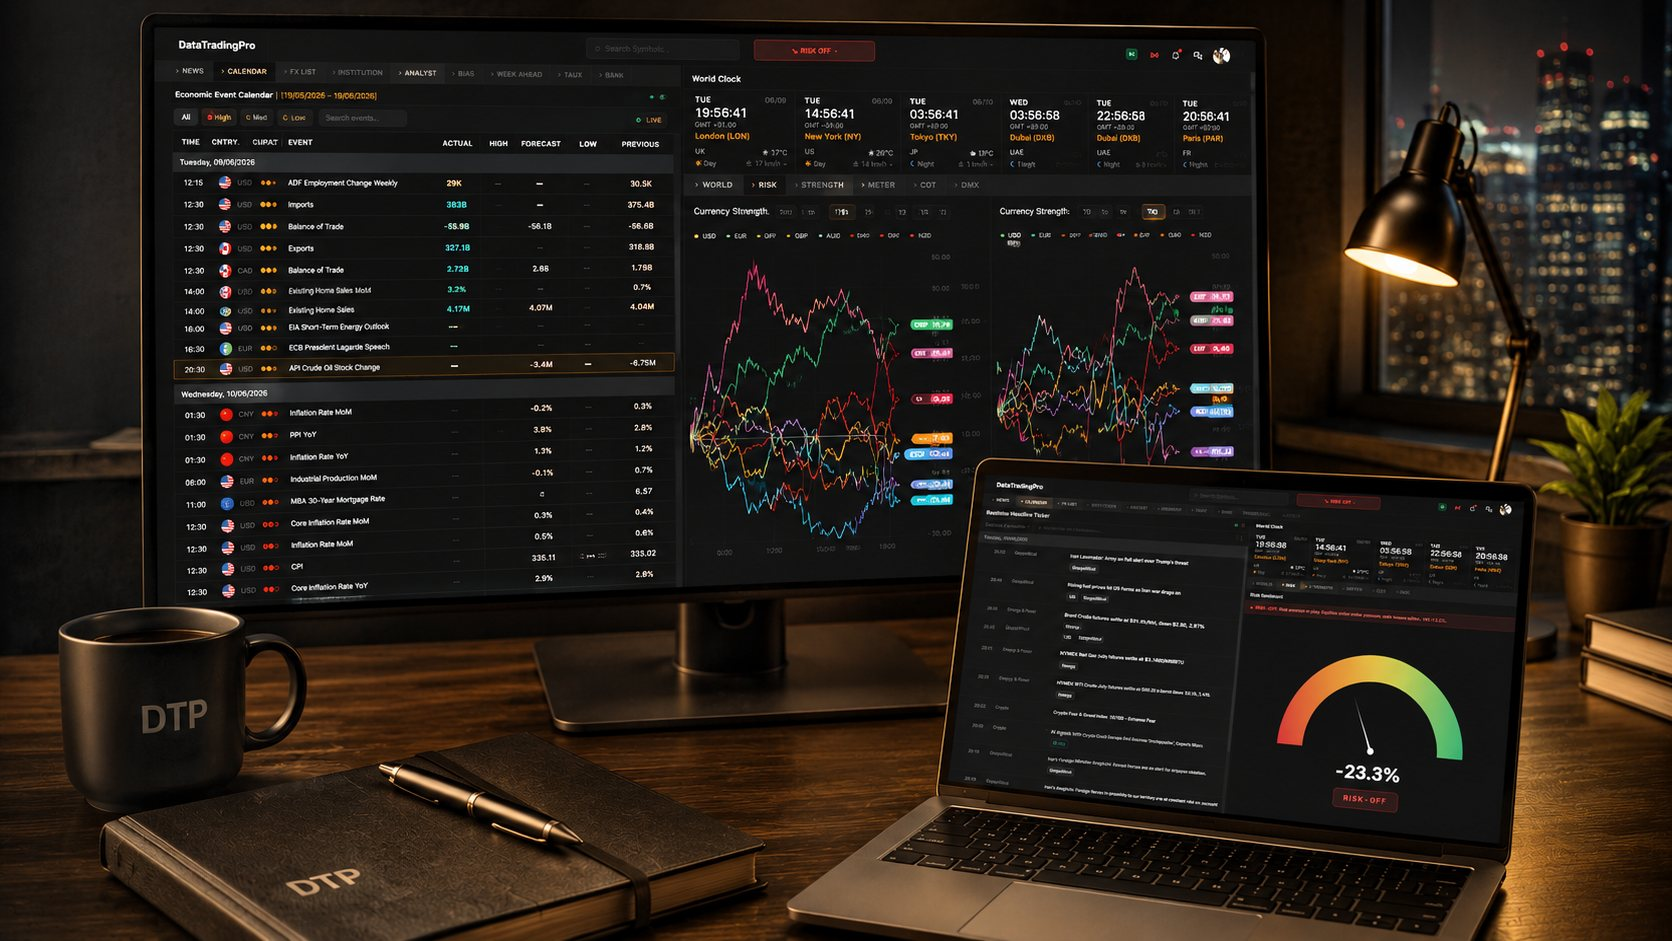
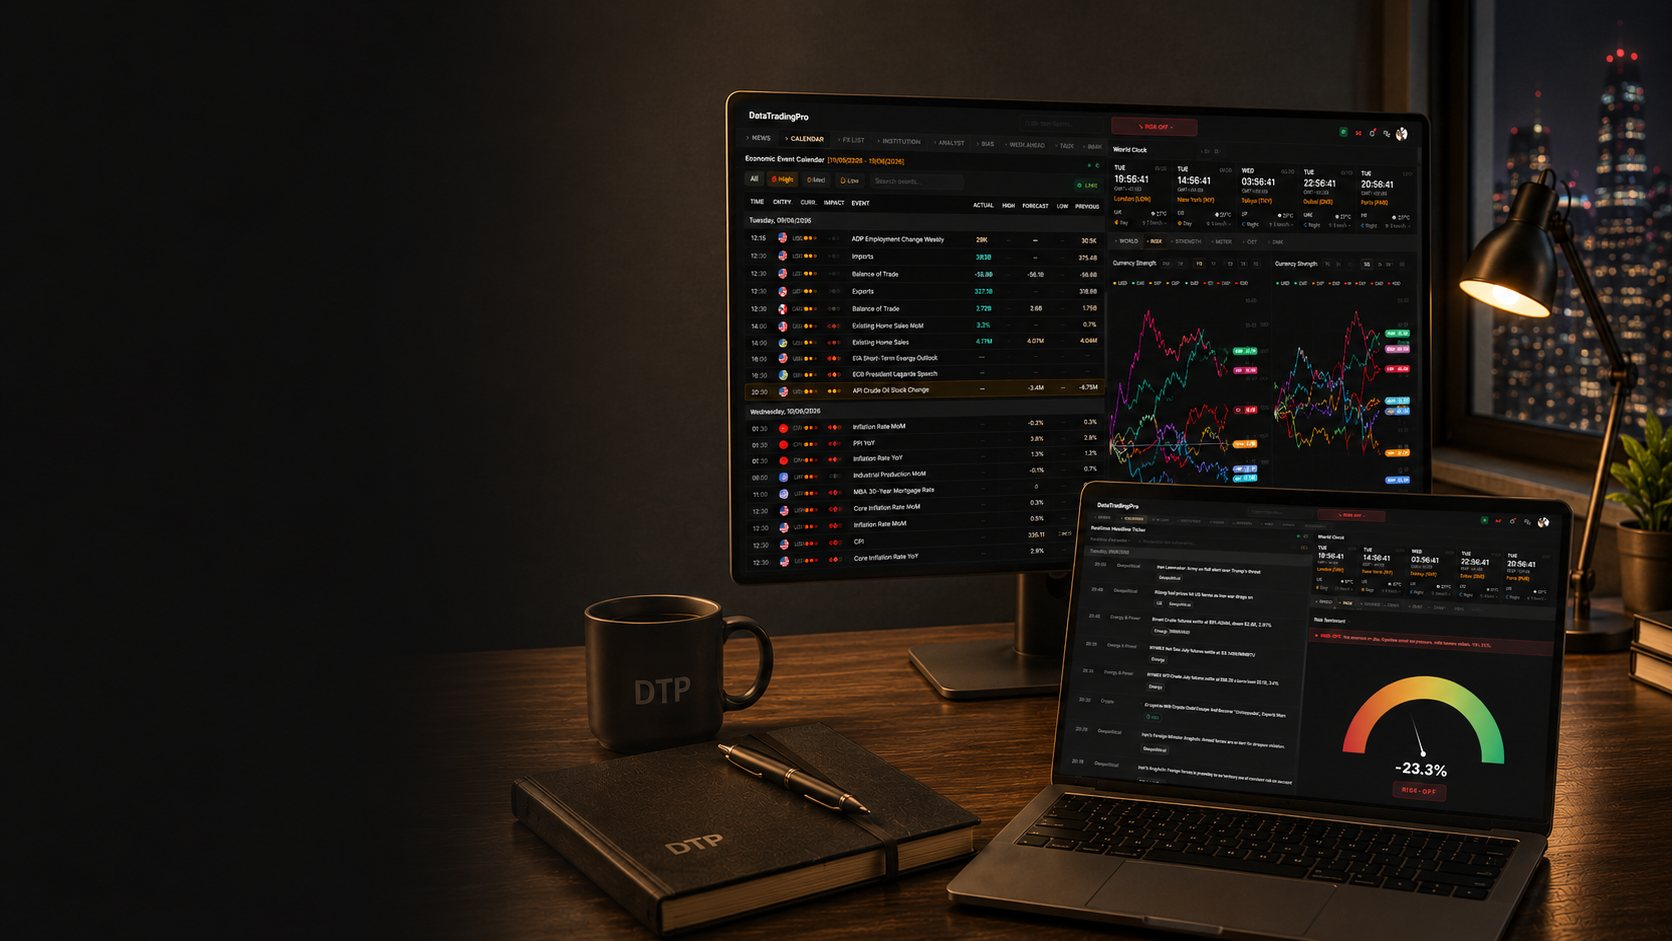
Hero : nouvelle photo de fond (version nette) + remontee (object-position 44%->55%)
- hero-desk.jpg remplacee par la nouvelle version generee (ecrans plus nets,
  moniteur + laptop bien visibles, gauche sombre = parfait pour le texte). 167 Ko.
- object-position center 44% -> 55% : remonte le contenu (laptop/ecrans) autant
  que le cadrage cover le permet sans rogner le haut du moniteur ni changer le
  cadrage horizontal. Cache ?v=2.
- Lisibilite du texte verifiee (luminance composite avg 6 / max 51).

diff --git a/landing/index.html b/landing/index.html
@@ -145,7 +145,7 @@
   .hero{position:relative;width:100%;overflow:hidden;background:#020203;border-bottom:1px solid var(--line);display:flex;flex-direction:column;min-height:calc(100svh - 108px);padding:0}
   /* IMAGE PLEIN CADRE (full-bleed) : la scène DTP couvre tout le hero, l'image est coupée pile au bas (bande stats) */
   .hero-shot{position:absolute;inset:0;z-index:0;overflow:hidden}
-  .hero-shot img{position:absolute;inset:0;width:100%;height:100%;object-fit:cover;object-position:center 44%;opacity:.94;filter:contrast(1.06) saturate(1.05)}
+  .hero-shot img{position:absolute;inset:0;width:100%;height:100%;object-fit:cover;object-position:center 55%;opacity:.94;filter:contrast(1.06) saturate(1.05)}
   /* Voile par-dessus : NOIR à gauche (lisibilité texte) → image révélée à droite, + léger assombrissement haut/bas */
   .hero-veil{position:absolute;inset:0;z-index:1;pointer-events:none;background:linear-gradient(90deg,#020203 0%,rgba(2,2,3,.93) 26%,rgba(2,2,3,.62) 50%,rgba(2,2,3,.22) 76%,rgba(2,2,3,0) 100%),linear-gradient(180deg,rgba(2,2,3,.5) 0%,rgba(2,2,3,0) 22%),linear-gradient(0deg,rgba(2,2,3,.42) 0%,rgba(2,2,3,0) 16%)}
   /* Mobile : on garde le centre de la scène (moniteur + laptop) */
@@ -2827,7 +2827,7 @@
 
 <!-- HERO façon terminal pro : image plein cadre, texte + témoignage à gauche, bande de stats en bas -->
 <section class="hero" aria-label="DataTradingPro — terminal macro & forex en temps réel">
-  <div class="hero-shot" aria-hidden="true"><img src="/img/hero-desk.jpg?v=1" alt="" loading="eager" decoding="async"></div>
+  <div class="hero-shot" aria-hidden="true"><img src="/img/hero-desk.jpg?v=2" alt="" loading="eager" decoding="async"></div>
   <div class="hero-veil" aria-hidden="true"></div>
   <div class="wrap hero-inner">
     <div class="hero-copy">